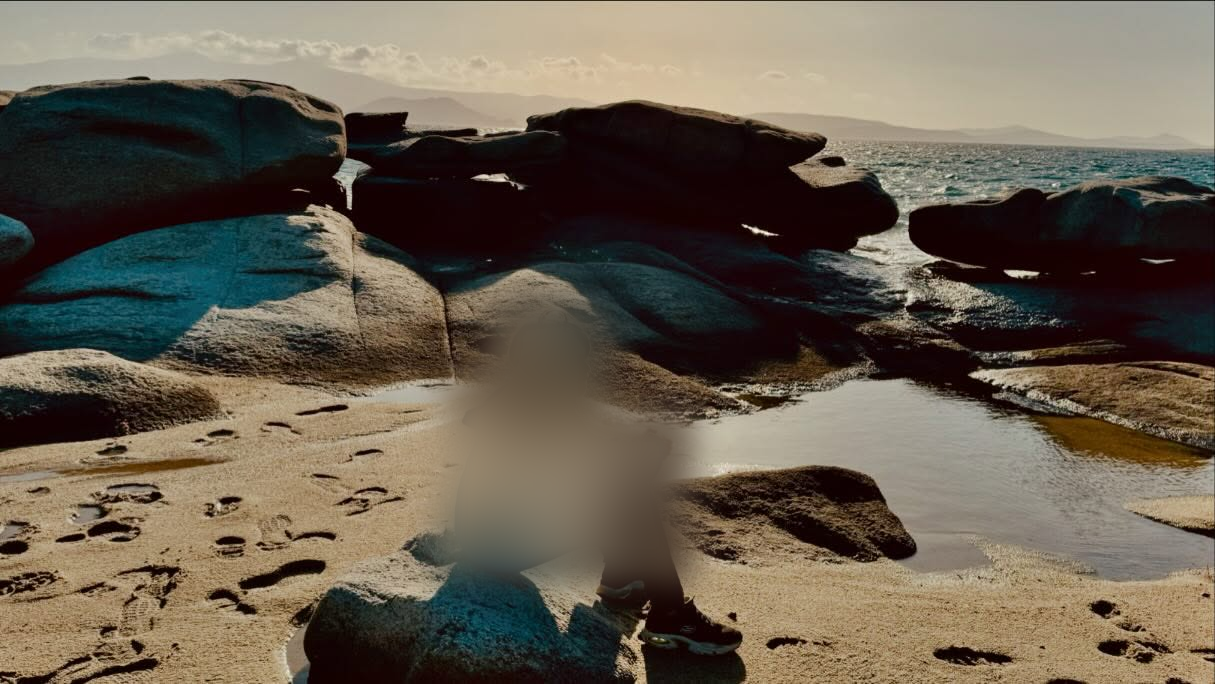
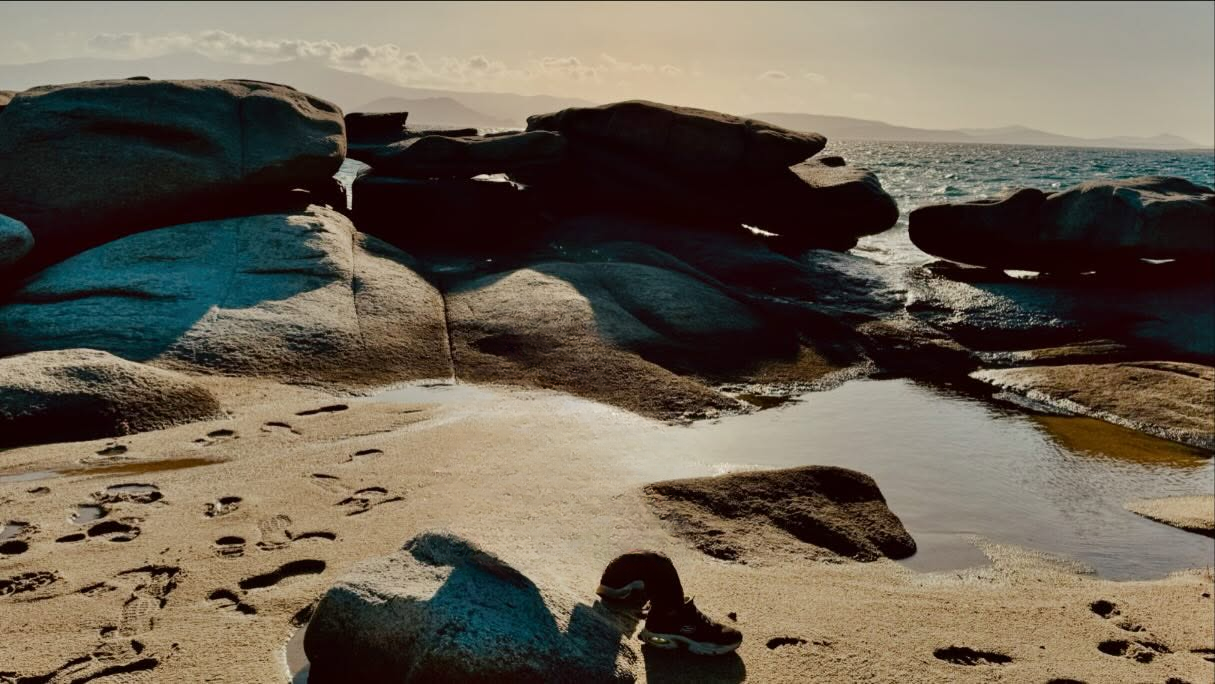
feat(memory-worlds): add pano cleanup to bootstrap worldgen

Changed region(s): [[0.335, 0.3991, 0.5786, 0.8904]]

diff --git a/pipeline/inpaint_environment_plate.py b/pipeline/inpaint_environment_plate.py
@@ -1,0 +1,132 @@
+from __future__ import annotations
+
+import argparse
+import os
+import sys
+from pathlib import Path
+
+import numpy as np
+from PIL import Image, ImageChops, ImageFilter
+
+
+ROOT = Path(__file__).resolve().parents[1]
+
+
+def build_parser() -> argparse.ArgumentParser:
+    parser = argparse.ArgumentParser(
+        description="Build a subject-erased environment bootstrap image using WorldGen's LaMa inpaint model.",
+    )
+    parser.add_argument("input", type=Path, help="Input photo path")
+    parser.add_argument("mask", type=Path, help="Foreground mask path")
+    parser.add_argument("output", type=Path, help="Output bootstrap image path")
+    parser.add_argument(
+        "--expand",
+        type=int,
+        default=48,
+        help="Pixels to dilate the foreground mask before inpainting",
+    )
+    parser.add_argument(
+        "--feather",
+        type=float,
+        default=8.0,
+        help="Gaussian blur radius applied when compositing the inpainted fill back over the source image",
+    )
+    parser.add_argument(
+        "--bbox-padding",
+        type=float,
+        default=0.42,
+        help="Extra padding around the nonzero mask bounds, as a fraction of the subject bounds, unioned into the inpaint mask",
+    )
+    return parser
+
+
+def dilate_mask(mask: Image.Image, expand: int) -> Image.Image:
+    if expand <= 0:
+        return mask
+    size = max(3, expand * 2 + 1)
+    if size % 2 == 0:
+        size += 1
+    return mask.filter(ImageFilter.MaxFilter(size=size))
+
+
+def configure_worldgen_import_path() -> Path:
+    worldgen_root = Path(os.environ.get("WORLDGEN_ROOT", ROOT / "_experiments" / "WorldGen")).resolve()
+    worldgen_src = worldgen_root / "src"
+    if not worldgen_src.exists():
+        raise FileNotFoundError(
+            f"WorldGen src directory not found at {worldgen_src}. Set WORLDGEN_ROOT to a valid checkout."
+        )
+    sys.path.insert(0, str(worldgen_src))
+    return worldgen_root
+
+
+def pad_to_multiple(image: Image.Image, mask: Image.Image, multiple: int = 8) -> tuple[Image.Image, Image.Image, tuple[int, int]]:
+    width, height = image.size
+    padded_width = ((width + multiple - 1) // multiple) * multiple
+    padded_height = ((height + multiple - 1) // multiple) * multiple
+    if padded_width == width and padded_height == height:
+        return image, mask, (width, height)
+
+    padded_image = Image.new("RGB", (padded_width, padded_height))
+    padded_image.paste(image, (0, 0))
+
+    padded_mask = Image.new("L", (padded_width, padded_height), 0)
+    padded_mask.paste(mask, (0, 0))
+    return padded_image, padded_mask, (width, height)
+
+
+def expand_mask_bounds(mask: Image.Image, padding_ratio: float) -> Image.Image:
+    array = np.array(mask)
+    ys, xs = np.nonzero(array > 16)
+    if ys.size == 0 or xs.size == 0:
+        return mask
+
+    width, height = mask.size
+    min_x, max_x = int(xs.min()), int(xs.max())
+    min_y, max_y = int(ys.min()), int(ys.max())
+    bbox_width = max_x - min_x + 1
+    bbox_height = max_y - min_y + 1
+    pad_x = max(12, int(bbox_width * max(0.0, padding_ratio)))
+    pad_y = max(12, int(bbox_height * max(0.0, padding_ratio * 0.85)))
+
+    left = max(0, min_x - pad_x)
+    top = max(0, min_y - pad_y)
+    right = min(width, max_x + pad_x + 1)
+    bottom = min(height, max_y + pad_y + 1)
+
+    expanded = Image.new("L", mask.size, 0)
+    expanded.paste(255, (left, top, right, bottom))
+    return ImageChops.lighter(mask, expanded)
+
+
+def main() -> int:
+    args = build_parser().parse_args()
+    output_path = args.output.resolve()
+    output_path.parent.mkdir(parents=True, exist_ok=True)
+
+    configure_worldgen_import_path()
+
+    from worldgen.pano_inpaint import build_inpaint_model, inpaint_image
+
+    with Image.open(args.input.resolve()) as image:
+        rgb = image.convert("RGB")
+    with Image.open(args.mask.resolve()) as image:
+        mask = image.convert("L").resize(rgb.size, Image.Resampling.BILINEAR)
+
+    expanded_mask = dilate_mask(mask, args.expand)
+    expanded_mask = expand_mask_bounds(expanded_mask, args.bbox_padding)
+    binary_mask = expanded_mask.point(lambda value: 255 if value > 16 else 0, mode="L")
+
+    padded_rgb, padded_mask, original_size = pad_to_multiple(rgb, binary_mask, multiple=8)
+
+    model = build_inpaint_model()
+    inpainted = inpaint_image(model, padded_rgb, padded_mask).crop((0, 0, original_size[0], original_size[1]))
+
+    environment_plate = inpainted
+    environment_plate.save(output_path, format="PNG")
+    print(output_path)
+    return 0
+
+
+if __name__ == "__main__":
+    raise SystemExit(main())

diff --git a/pipeline/run_single_image_world_backend.py b/pipeline/run_single_image_world_backend.py
@@ -47,6 +47,13 @@ def ensure_dir(path: str | None) -> None:
         Path(path).mkdir(parents=True, exist_ok=True)
 
 
+def should_clean_subject_from_pano(args: argparse.Namespace) -> bool:
+    configured = os.environ.get("WORLDGEN_CLEAN_PANO_SUBJECT", "1").strip().lower()
+    if configured in {"0", "false", "no", "off"}:
+        return False
+    return bool(args.mask and Path(args.mask).exists())
+
+
 def run_worldgen(args: argparse.Namespace) -> int:
     worldgen_root = Path(os.environ.get("WORLDGEN_ROOT", ROOT / "_experiments" / "WorldGen")).resolve()
     worldgen_src = worldgen_root / "src"
@@ -62,10 +69,14 @@ def run_worldgen(args: argparse.Namespace) -> int:
     sys.path.insert(0, str(worldgen_src))
 
     try:
-        from PIL import Image
+        from PIL import Image, ImageFilter
+        import numpy as np
         import torch
         from worldgen import WorldGen
+        from worldgen.pano_depth import pred_depth
+        from worldgen.pano_inpaint import build_inpaint_model, inpaint_pano
         from worldgen.pano_sharp import predict_equirectangular
+        from worldgen.utils.general_utils import map_image_to_pano, resize_img
     except Exception as exc:  # pragma: no cover - dependency discovery path
         print(
             "[worldgen] Failed to import WorldGen dependencies.\n"
@@ -107,7 +118,32 @@ def run_worldgen(args: argparse.Namespace) -> int:
         world.predict_equirectangular = predict_equirectangular
 
     image = Image.open(image_path).convert("RGB")
-    splat = world.generate_world(prompt=args.prompt or "", image=image, return_mesh=False)
+
+    pano_image = world.generate_pano(prompt=args.prompt or "", image=image)
+
+    if should_clean_subject_from_pano(args):
+        mask_path = Path(args.mask).resolve()
+        mask_image = Image.open(mask_path).convert("L").resize(image.size, Image.Resampling.BILINEAR)
+        resized_image = resize_img(image)
+        resized_mask = mask_image.resize(resized_image.size, Image.Resampling.BILINEAR)
+
+        predictions = pred_depth(world.depth_model, resized_image)
+        mask_array = np.array(resized_mask)
+        mask_rgb = np.repeat(mask_array[:, :, None], 3, axis=2)
+        mask_predictions = {
+            **predictions,
+            "rgb": torch.from_numpy(mask_rgb).to(predictions["rgb"].device),
+        }
+        pano_mask_image, _ = map_image_to_pano(mask_predictions, device=world.device)
+        pano_mask = pano_mask_image.convert("L").point(lambda value: 255 if value > 24 else 0, mode="L")
+        pano_mask = pano_mask.filter(ImageFilter.MaxFilter(size=31))
+
+        inpaint_model = build_inpaint_model(device=device)
+        pano_image = inpaint_pano(inpaint_model, pano_image, (np.array(pano_mask) > 0).astype(np.uint8))
+        pano_image.save(output_dir / "scene.pano.cleaned.png")
+        pano_mask.save(output_dir / "scene.pano.subject-mask.png")
+
+    splat = world._generate_world(pano_image, return_mesh=False)
     splat.save(str(output_path))
 
     print(
